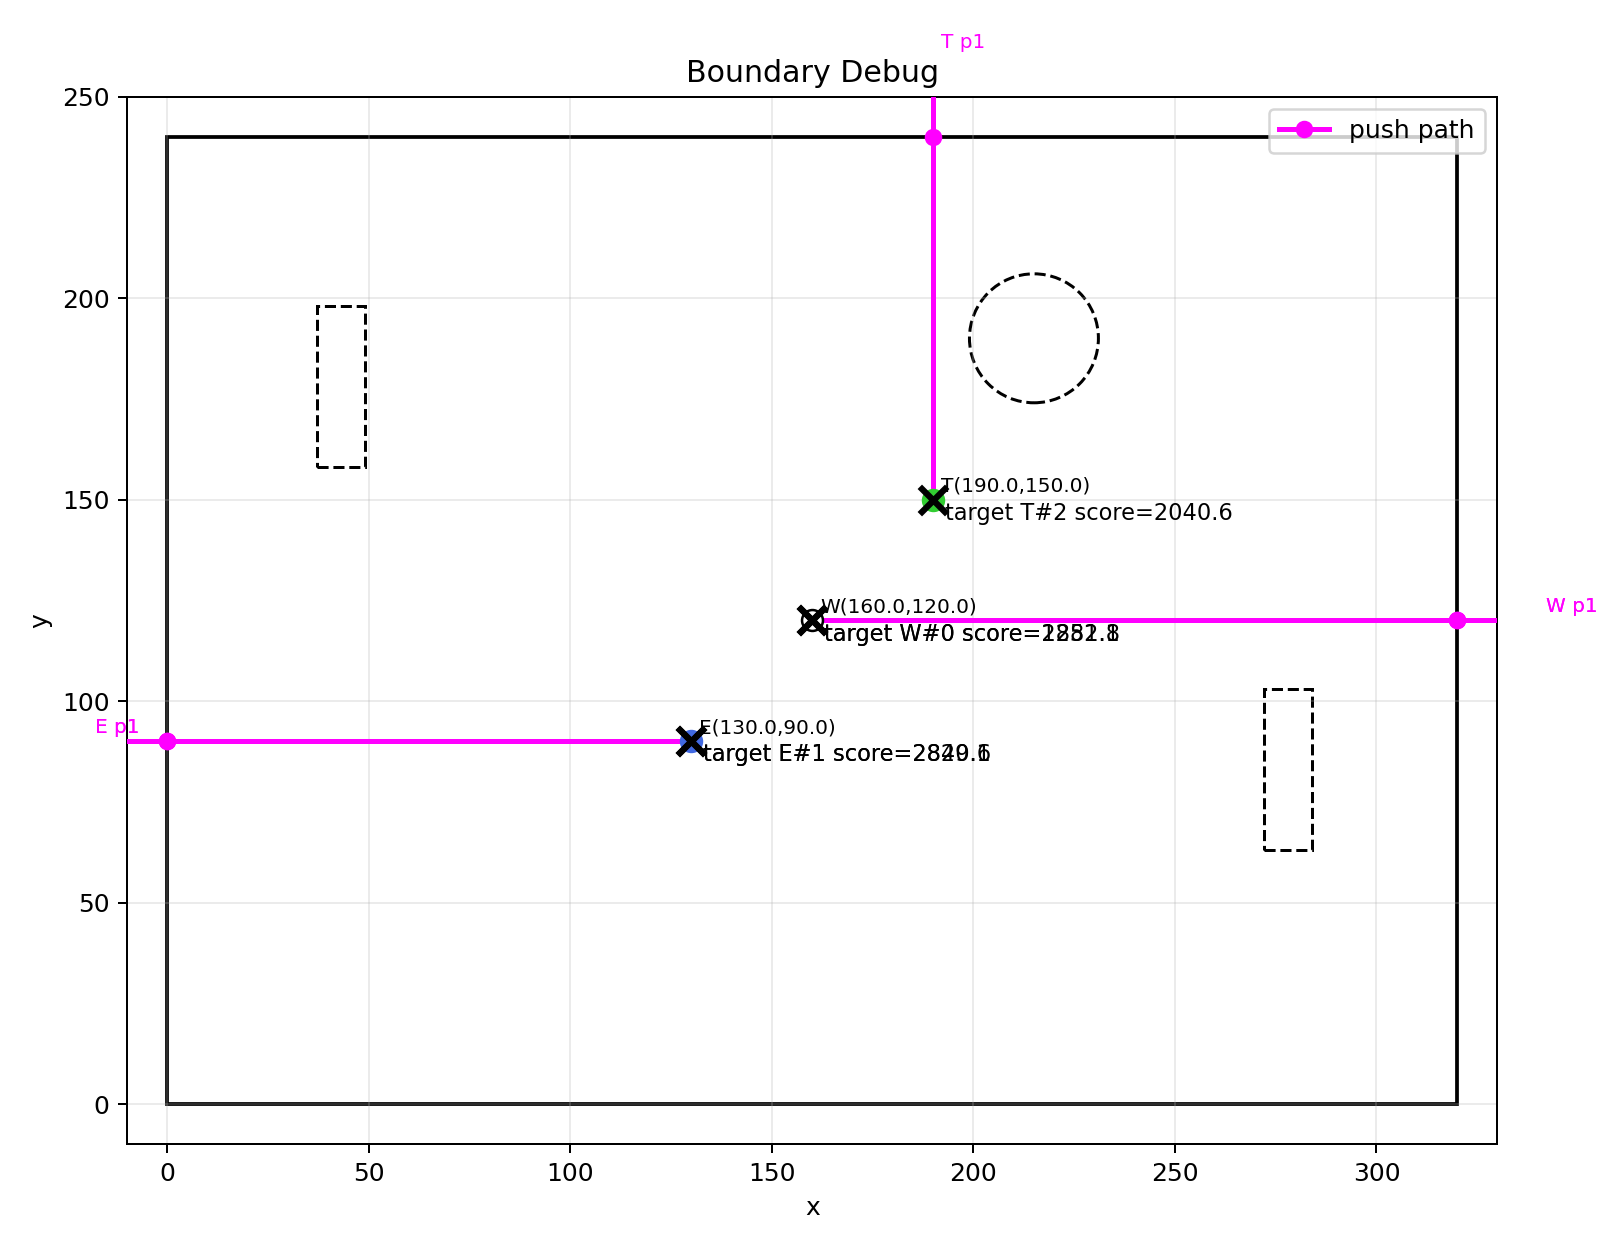
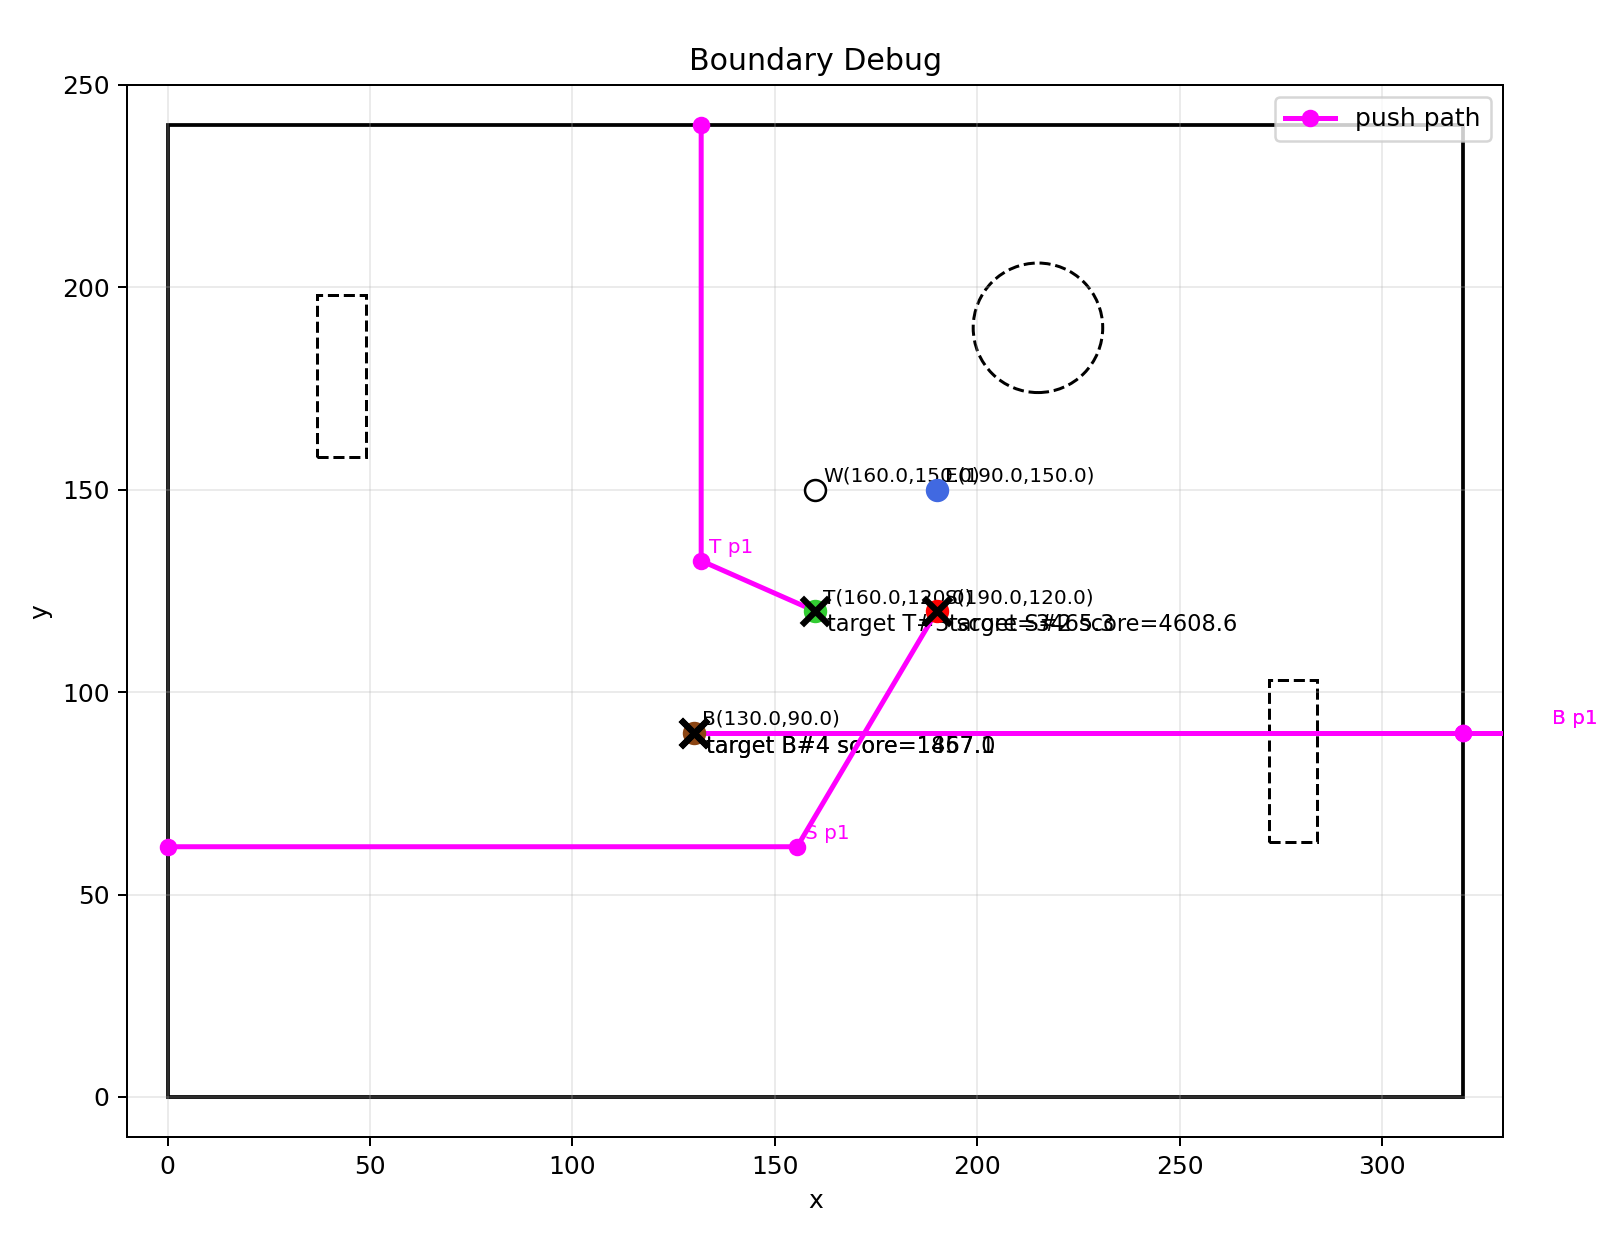
更新搬运控制类，调整计数器阈值，优化路径规划获取障碍物列表

diff --git a/main_car/user_main.py b/main_car/user_main.py
@@ -560,6 +560,7 @@ def time_pit2_handler(time):
         my_menu.handle_key_from_interrupt(key)
     """
 
+    my_uart2.write(f"{my_state.state}\r\n")
     # my_uart2.write("{:<f},{:<f},{:<f},{:<f},{:<f}\n".format(motor_ul_pid.target, motor_ul_pid.actual, motor_ul_pid.pwm_output, motor_ul_pid.derivative * motor_ul_pid.kd, motor_ul_pid.integral))
     # my_uart3.write("{:<f},{:<f},{:<f},{:<f},{:<f}\n".format(motor_ur_pid.target, motor_ur_pid.actual, motor_ur_pid.pwm_output, motor_ur_pid.derivative * motor_ur_pid.kd, motor_ur_pid.integral))
     # my_uart3.write("{:<f},{:<f},{:<f},{:<f},{:<f}\n".format(motor_md_pid.target, motor_md_pid.actual, motor_md_pid.pwm_output, motor_md_pid.derivative * motor_md_pid.kd, motor_md_pid.integral))
@@ -608,11 +609,77 @@ voltage_detect(11.2)
 pit2_start()
 
 while True:
-    # 如果拨码开关打开 对应引脚拉低 就退出循环
-    # 这么做是为了防止写错代码导致异常 有一个退出的手段
-    if switch2.value() != state2:
-        print("Test program stop.")
-        gc.collect()
-        break
+    if my_state.state == READY_NAVIGATE:
+        if my_task.if_transitioning:
+            my_task.enter()
 
+        if not my_task.if_end_first_scan:
+            my_task.exit()
+            continue
+        if not my_task.if_choose_object:
+            if my_task.now_objects:
+                if my_task.object_plan.judge_object_character(my_task.now_objects, my_task.last_side):
+                    target = my_task.object_plan.plan_target
+                    my_task.if_end_first_scan = True
+                    my_task.my_write_system.write_str(f"final_objects:{my_task.now_objects}\n")
+                    my_task.my_write_system.write_str(f"target{my_task.object_plan.target_objects}\n")
+                    my_task.my_write_system.write_str(f"path{my_task.object_plan.path}\n")
+                    my_task.my_write_system.write_str(f"score{my_task.object_plan.target_score}\n")
+                    if not target:
+                        #self.my_uart.write("False\n")
+                        my_task.exit()
+                    else:
+                        my_task.object_plan.barrier.pop(target[0])
+                        my_task.now_objects.pop(target[0])
+                        my_task.my_moving.now_barriar=my_task.object_plan.barrier[:]
+                        #self.my_uart.write(f"barriar{my_task.my_moving.now_barriar}\n")
+                        my_task.current_object=target[1]
+                        my_task.my_vision.current_servo_object = my_task.current_object
+                        rm = my_task.my_moving.ready_move([target[2],target[3]],now_side = my_task.last_side,target_side = target[4],RECT = target[5],Num = target[6])
+                        # self.my_uart.write(f"car_position:{my_task.my_moving.push_postion}\n")
+                        #self.my_uart.write(f"rm:{rm},nav_n:{len(my_task.my_moving.navigate_buffer)}\n")
+                        if rm:
+                            my_task.my_moving.saved_best_path =my_task.object_plan.best_path
+                            num_compensation = my_task.data.current_index * my_task.num_clamp_factor
+                            my_task.my_moving.clamp_distance = my_task.clamp_distance[my_task.current_object]+num_compensation
+                            my_task.if_choose_object = True
+                            my_task.my_plan.reset_navigate()
+                        else:my_task.exit()
+            else:my_task.exit()
+        else:
+            if my_task.data.current_index >= my_task.data.total_objects_num:
+                my_task.my_state.state = RETURN
+                my_task.if_transitioning = True
+                continue
+            # 进入准备导航状态，做好路径规划准备和导航信息准?
+            slave_stop_threshold = 25.0
+            planned_path = my_task.my_moving.navigate_buffer['MAIN_P']
+            insert_point = []
+            if my_task.last_side == "L":
+                target_angle = 90.0
+                my_task.slave_navigate_message = [[planned_path[-2][0] - slave_stop_threshold, planned_path[-2][1]], target_angle]
+                if my_task.if_first_round:my_task.if_first_round = False
+                else:insert_point = [my_task.my_car.x_current+15,my_task.my_car.y_current]
+            elif my_task.last_side == "R":
+                target_angle = -90.0
+                my_task.slave_navigate_message = [[planned_path[-2][0] + slave_stop_threshold,planned_path[-2][1]], target_angle]
+                if my_task.if_first_round:my_task.if_first_round = False
+                else:insert_point = [my_task.my_car.x_current-15,my_task.my_car.y_current]
+            elif my_task.last_side == "U":
+                target_angle = 180.0
+                my_task.slave_navigate_message = [[planned_path[-2][0], planned_path[-2][1] + slave_stop_threshold], target_angle]
+                if my_task.if_first_round:my_task.if_first_round = False
+                else:insert_point = [my_task.my_car.x_current,my_task.my_car.y_current-15]
+            else:
+                target_angle = 0.0
+                my_task.slave_navigate_message = [[planned_path[-2][0], planned_path[-2][1] - slave_stop_threshold], target_angle]
+                if my_task.if_first_round:my_task.if_first_round = False
+                else:insert_point = [my_task.my_car.x_current,my_task.my_car.y_current+15]
+            # 进行路径规划
+            my_task.my_moving.slave_massage['path'] = my_task.slave_navigate_message [0]
+            my_task.my_moving.slave_massage['angle'] = my_task.slave_navigate_message [1]
+            if insert_point:planned_path = [insert_point] + planned_path
+            my_task.my_moving.navigate_buffer['MAIN_P'] = planned_path
+            my_task.exit()  # 退出当前状态，进入导航状态
+        
     gc.collect()

diff --git a/main_car/ant_task.py b/main_car/ant_task.py
@@ -291,75 +291,7 @@ class TaskController:
                 self.my_state.state = RETURN  # 如果所有物体都处理完了，进入返回状�?
             self.if_transitioning = True  # 退出当前状态，准备进入下一个状�?
     def handle_ready_navigate(self):
-        if not self.if_end_first_scan:
-            self.exit()
-            return
-        if not self.if_choose_object:
-            if self.now_objects:
-                if self.object_plan.judge_object_character(self.now_objects,self.last_side):
-                    target = self.object_plan.plan_target
-                    self.if_end_first_scan = True
-                    self.my_write_system.write_str(f"final_objects:{self.now_objects}\n")
-                    self.my_write_system.write_str(f"target{self.object_plan.target_objects}\n")
-                    self.my_write_system.write_str(f"path{self.object_plan.path}\n")
-                    self.my_write_system.write_str(f"score{self.object_plan.target_score}\n")
-                    if not target:
-                        #self.my_uart.write("False\n")
-                        self.exit()
-                    else:
-                        self.object_plan.barrier.pop(target[0])
-                        self.now_objects.pop(target[0])
-                        self.my_moving.now_barriar=self.object_plan.barrier[:]
-                        #self.my_uart.write(f"barriar{self.my_moving.now_barriar}\n")
-                        self.current_object=target[1]
-                        self.my_plan.current_object = self.current_object
-                        self.my_vision.current_servo_object = self.current_object
-                        rm = self.my_moving.ready_move([target[2],target[3]],now_side = self.last_side,target_side = target[4],RECT = target[5],Num = target[6])
-                        # self.my_uart.write(f"car_position:{self.my_moving.push_postion}\n")
-                        #self.my_uart.write(f"rm:{rm},nav_n:{len(self.my_moving.navigate_buffer)}\n")
-                        if rm:
-                            self.my_moving.saved_best_path =self.object_plan.best_path
-                            num_compensation = self.data.current_index * self.num_clamp_factor
-                            self.my_moving.clamp_distance = self.clamp_distance[self.current_object]+num_compensation
-                            self.if_choose_object = True
-                            self.my_plan.reset_navigate()
-                        else:self.exit()
-            else:self.exit()
-        else:
-            if self.data.current_index >= self.data.total_objects_num:
-                self.my_state.state = RETURN
-                self.if_transitioning = True
-                return
-            # 进入准备导航状态，做好路径规划准备和导航信息准�?
-            slave_stop_threshold = 25.0
-            planned_path = self.my_moving.navigate_buffer['MAIN_P']
-            insert_point = []
-            if self.last_side == "L":
-                target_angle = 90.0
-                self.slave_navigate_message = [[planned_path[-2][0] - slave_stop_threshold, planned_path[-2][1]], target_angle]
-                if self.if_first_round:self.if_first_round = False
-                else:insert_point = [self.my_car.x_current+15,self.my_car.y_current]
-            elif self.last_side == "R":
-                target_angle = -90.0
-                self.slave_navigate_message = [[planned_path[-2][0] + slave_stop_threshold,planned_path[-2][1]], target_angle]
-                if self.if_first_round:self.if_first_round = False
-                else:insert_point = [self.my_car.x_current-15,self.my_car.y_current]
-            elif self.last_side == "U":
-                target_angle = 180.0
-                self.slave_navigate_message = [[planned_path[-2][0], planned_path[-2][1] + slave_stop_threshold], target_angle]
-                if self.if_first_round:self.if_first_round = False
-                else:insert_point = [self.my_car.x_current,self.my_car.y_current-15]
-            else:
-                target_angle = 0.0
-                self.slave_navigate_message = [[planned_path[-2][0], planned_path[-2][1] - slave_stop_threshold], target_angle]
-                if self.if_first_round:self.if_first_round = False
-                else:insert_point = [self.my_car.x_current,self.my_car.y_current+15]
-            # 进行路径规划
-            self.my_moving.slave_massage['path'] = self.slave_navigate_message [0]
-            self.my_moving.slave_massage['angle'] = self.slave_navigate_message [1]
-            if insert_point:planned_path = [insert_point] + planned_path
-            self.my_moving.navigate_buffer['MAIN_P'] = planned_path
-            self.exit()  # 退出当前状态，进入导航状�?
+        pass
 
     def handle_navigate(self):
         # if state == NAVIGATE

diff --git a/slave_car/user_main.py b/slave_car/user_main.py
@@ -268,7 +268,7 @@ my_tof = ant_move.TofControl(my_flash_sys, my_beep, my_car, my_plan, dist_pid_L,
 my_vision_manager = ant_vision.VisionManager(my_flash_sys, my_beep, pose_data, angle_pid, servo_pid, sin_servo_fil, cos_servo_fil, my_uart3, my_car, my_art_protocol, my_order_manager, my_plan, my_state)
 
 # 搬运控制类
-my_moving = ant_move.MoveControl(my_flash_sys,my_beep, my_photo, my_uart3, my_car, my_plan, my_path, plan_data, my_vision_manager, my_state, my_slave_protocol, my_art_protocol, my_order_manager, my_tof)
+my_moving = ant_move.MoveControl(my_flash_sys,my_beep, my_photo, my_uart3, my_uart2, my_car, my_plan, my_path, plan_data, my_vision_manager, my_state, my_slave_protocol, my_art_protocol, my_order_manager, my_tof)
 # 任务及类
 my_task = ant_task.TaskController(my_flash_sys,my_beep, my_state, my_uart3, my_car, my_path, my_plan, my_vision_manager,  my_moving, plan_data, my_order_manager, my_art_protocol,  my_slave_protocol)
 
@@ -519,13 +519,15 @@ def time_pit3_handler(time) -> None:
 
     # 任务执行机
     task_machine()
-    
-    # 全向定位测试程序
+
     """
+    # 全向定位测试程序
     if my_state.state == READY_NAVIGATE:
         my_state.state = NAVIGATE
         my_car.x_current = 0.0
         my_car.y_current = 0.0
+        my_path.plan_path(240.0, 220.0)
+        print(f"{my_path.ready_path}")
     elif my_state.state == NAVIGATE:
         # my_plan.navigate(path = [[0.0, 150.0]], target_turn_angle= -30.0)
         # my_plan.navigate(path = [[160,0],[160,240],[0,240],[-160,240],[-160,0],[0,0]])

diff --git a/main_car/ant_boundary_plan.py b/main_car/ant_boundary_plan.py
@@ -552,7 +552,7 @@ class objects_planner:
                             path = [[sx,sy]]+self.path[j]
                             has_planned = True
                     if not has_planned:
-                        path = self.my_BoundaryPath.plan_move(dir, sdir, self.barrier, i[2], i[3], skip_idx=i[0])
+                        path = self.my_BoundaryPath.plan_move(dir, sdir, self.barrier, sx, sy, skip_idx=i[0])
                 push_distance,push_angle= 1000,90
                 if (not path) or len(path) <= 1: 
                     self.path.append([])
@@ -610,8 +610,15 @@ class objects_planner:
                 if self.target_score[i] == min(self.target_score):
                     self.plan_target = self.target_objects[i]
                     if self.path[i]:
-                        dx = self.path[i][0][0] - self.plan_target[2]
-                        dy = self.path[i][0][1] - self.plan_target[3]
+                        raw_x, raw_y = self.plan_target[2], self.plan_target[3]
+                        if self.plan_target[1] in ['S', 'E']:
+                            raw_x += 10.0
+                        elif self.plan_target[1] in ['B', 'W']:
+                            raw_x -= 10.0
+                        elif self.plan_target[1] == 'T':
+                            raw_y -= 10.0
+                        dx = self.path[i][0][0] - raw_x
+                        dy = self.path[i][0][1] - raw_y
                         self.best_path = [dx,dy]
                 if self.path[i]:
                     new_path.append(self.path[i][0])

diff --git a/main_car/ant_else.py b/main_car/ant_else.py
@@ -198,6 +198,8 @@ class flash_system:
 
         if error_flag:
             self.beep.beep_warn()
+
+# 日志系统
 class write_system:
     def __init__(self, beep, file_path: str):
         # 注入蜂鸣器对象，用于警报
@@ -206,6 +208,7 @@ class write_system:
         # 传入文件路径
         self.file_path = file_path  # type: str
         gc.collect()
+
     def write_str(self, line: str) -> None:
         try:
             with open(self.file_path, 'a') as f:
@@ -214,7 +217,7 @@ class write_system:
                     f.write("\n")
         except Exception as e:
             print(f"Error: Failed to write to {self.file_path}: {e}")
-            self.beep.beep_warn()
+
     def init_write(self) -> None:
         self.num = 1
         try:
@@ -234,7 +237,6 @@ class write_system:
                 f.write(f"This is the {self.num}th log of the main car.\n")
         except Exception as e:
             print(f"Error: Failed to write to {self.file_path}: {e}")
-            self.beep.beep_warn()
 
 class beep:
     __slots__ = ('beep', 'beep_state')

diff --git a/slave_car/ant_task.py b/slave_car/ant_task.py
@@ -131,7 +131,7 @@ class TaskController:
             self.if_transitioning = True  # 退出当前状态，准备进入下一个状态
         elif state == NAVIGATE:
             # 退出导航状态，停止路径跟随
-            if self.current_object == 'P':
+            if self.current_object in ['P', 'M']:
                 self.my_plan.reset_navigate_angle()  # 重置导航角度
                 self.my_plan.reset_navigate()  # 重置导航标志
                 self.my_state.state = READY_NAVIGATE
@@ -157,7 +157,7 @@ class TaskController:
                 self.my_vision.calibrate_buffer = [[self.pt_buffer[0]],self.pt_buffer[1]]
                 self.my_state.state = CALIBRATE
                 self.if_transitioning=True
-            else:
+            elif self.current_object in ['T', 'S', 'E', 'W', 'B']:
                 #target_point = self.my_art_protocol.coordinate_receive()
                 #if target_point and chr(target_point[2]) == self.current_object:
                 # 计数器清零

diff --git a/slave_car/ant_move.py b/slave_car/ant_move.py
@@ -209,10 +209,11 @@ class TofControl:
 
 # 搬运控制类
 class MoveControl:
-    def __init__(self, flash_sys, beep, photo, uart, car, plan, path_plan, plan_data, vision_manager, state, slave_protocol, art_protocol, order_manager, tof):
+    def __init__(self, flash_sys, beep, photo, uart, uart_debug, car, plan, path_plan, plan_data, vision_manager, state, slave_protocol, art_protocol, order_manager, tof):
         self.my_beep = beep
         self.my_photo = photo
         self.my_uart = uart
+        self.uart_debug = uart_debug
         self.vision_manager = vision_manager
         self.my_plan = plan
         self.my_path = path_plan

diff --git a/slave_car/ant_plan.py b/slave_car/ant_plan.py
@@ -83,8 +83,9 @@ class PathPlan:
 
     # 路径规划主函数
     def plan_path(self, x1, y1, ignore_center_rect=False):
-        circles = self.Data.circle
-        rects = self.Data.rectangles
+        # 获取当前障碍物列表（切片）
+        circles = self.Data.circle[:]
+        rects = self.Data.rectangles[:]
 
         # 如果特定状态激活，将原有的中心区域矩形障碍物移除
         # 根据 PlanData 的初始化，中心矩形障碍物是最后追加进去的

diff --git a/main_car/ant_move.py b/main_car/ant_move.py
@@ -578,7 +578,7 @@ class MoveControl:
                 self.my_photo.reset_photo()
                 self.my_beep.test()
                 self.my_plan.if_finish_navigate = True
-                self.my_write_system.write_str(f"finish_move--car_x:{self.my_car.x_current},car_y:{self.my_car.y_current}\n")
+                
             self.my_plan.navigate(path = self.plan_path)
             if self.my_plan.if_finish_navigate == True:
                 self.state_transition()

diff --git a/main_car/ant_plan.py b/main_car/ant_plan.py
@@ -18,7 +18,7 @@ STOP = const(9)           # 停止状态
 class StateMachine:
     def __init__(self):        
         self.if_move_easy_object = False   # 是否搬运过易搬运物体的标志位（搬运过易搬运物体后在返回起点时不避开矩形区域）
-        self.state = READY_NAVIGATE  # 初始状态为准备导航状态
+        self.state = None  # 初始状态为准备导航状态
         gc.collect()
 
 # 路径和速度规划相关常量
